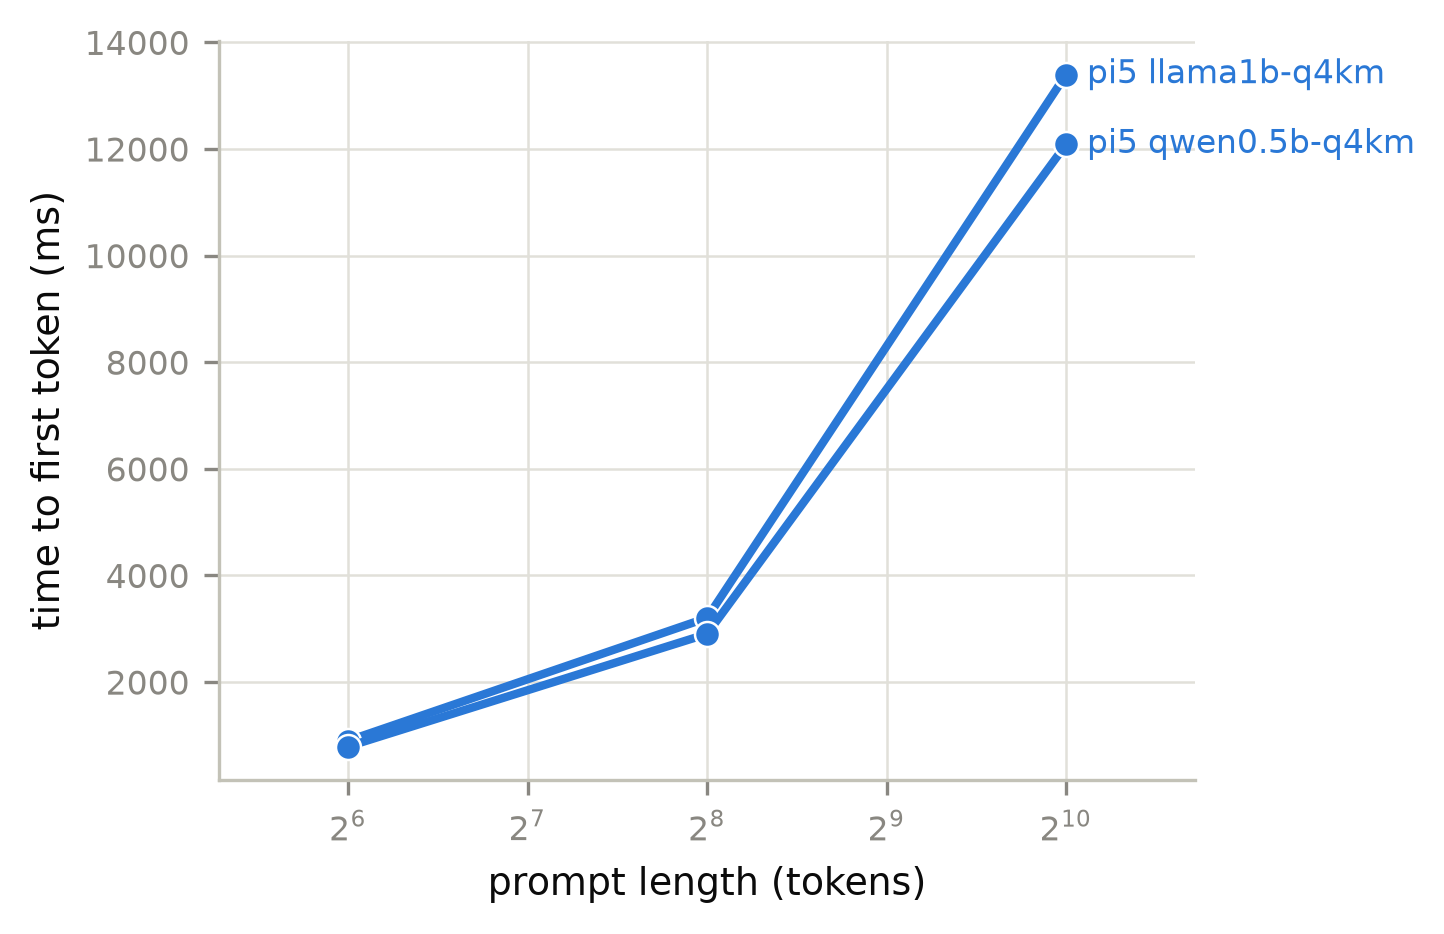
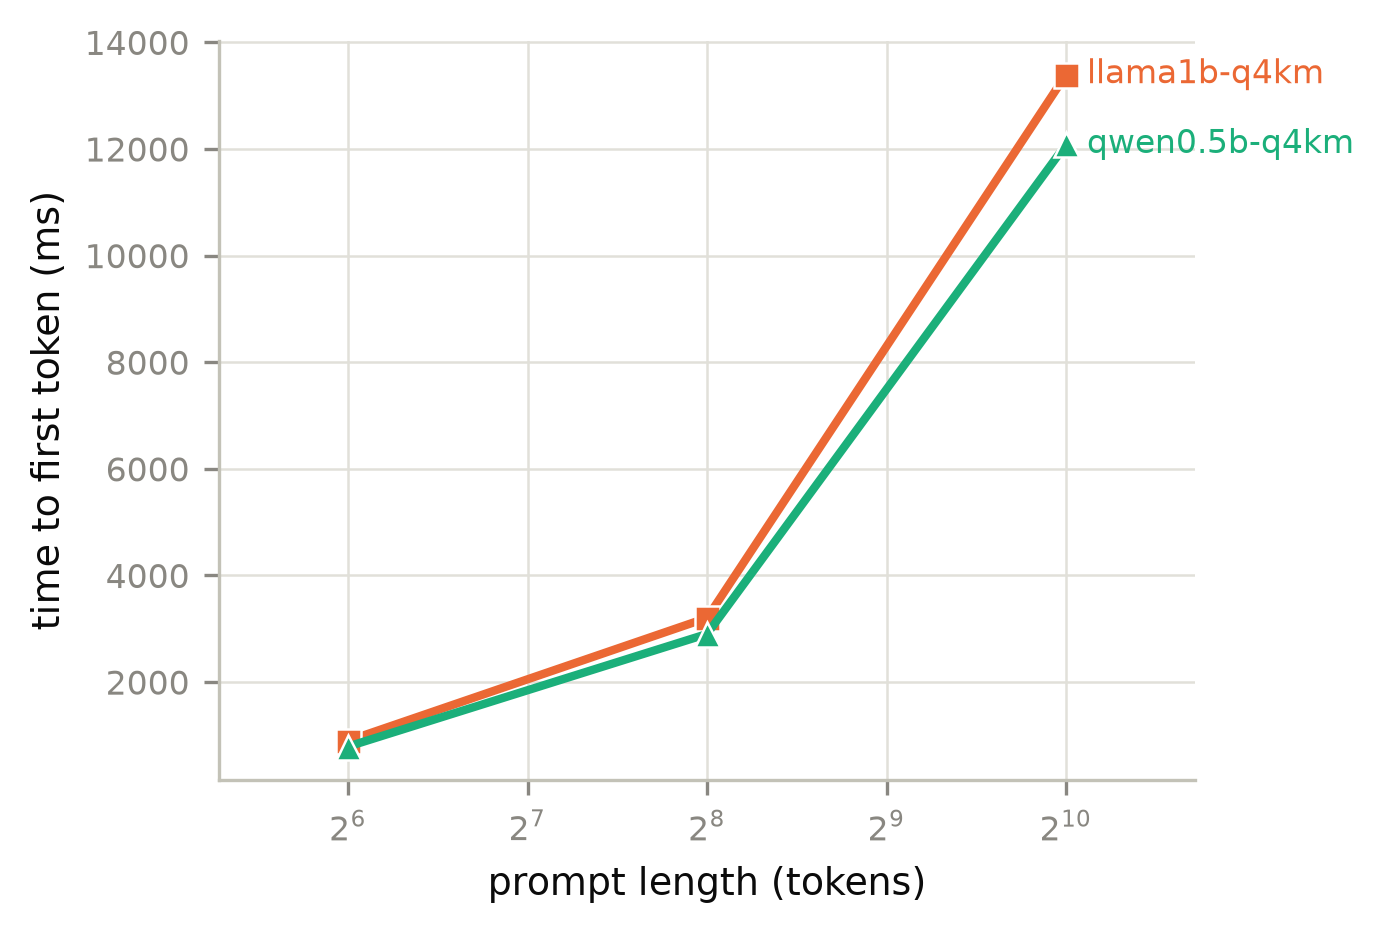
TTFT figure: color by model when the plot has a single device
Color bound strictly to device left every series on a one-device plot
identical; color now follows whichever entity discriminates the series.
Regenerated the curated Pi campaign report.

diff --git a/src/mlsyslab/analysis/plots.py b/src/mlsyslab/analysis/plots.py
@@ -194,12 +194,18 @@ class FigureSet:
         return name
 
     def ttft(self, name: str = "fig_ttft") -> Optional[str]:
-        """Time to first token against prompt length, per device and model."""
+        """Time to first token against prompt length, per device and model.
+
+        Color follows whichever entity actually discriminates the series: with one
+        device on the plot every line would otherwise wear the same color and the
+        models would be distinguishable only by reading the labels.
+        """
         plt = _require_matplotlib()
         _style(plt)
         usable = self.dataset.having("ttft_ms", "prompt_tokens")
         if len(usable) < 2:
             return None
+        single_device = len(usable.unique("device")) == 1
 
         figure, axis = plt.subplots(figsize=(4.2, 3.2))
         labelled = False
@@ -209,10 +215,12 @@ class FigureSet:
                 continue
             prompts = [r["prompt_tokens"] for r in ordered.rows]
             ttfts = [r["ttft_ms"] for r in ordered.rows]
-            color = self.color(device)
-            axis.plot(prompts, ttfts, color=color, marker=self.marker(device),
+            series_key = model if single_device else device
+            color, marker = self.color(series_key), self.marker(series_key)
+            axis.plot(prompts, ttfts, color=color, marker=marker,
                       markeredgecolor="white", markeredgewidth=0.6)
-            axis.annotate(f"{device} {model}", xy=(prompts[-1], ttfts[-1]),
+            label = model if single_device else f"{device} {model}"
+            axis.annotate(label, xy=(prompts[-1], ttfts[-1]),
                           xytext=(5, 0), textcoords="offset points",
                           fontsize=8, color=color, va="center")
             labelled = True
